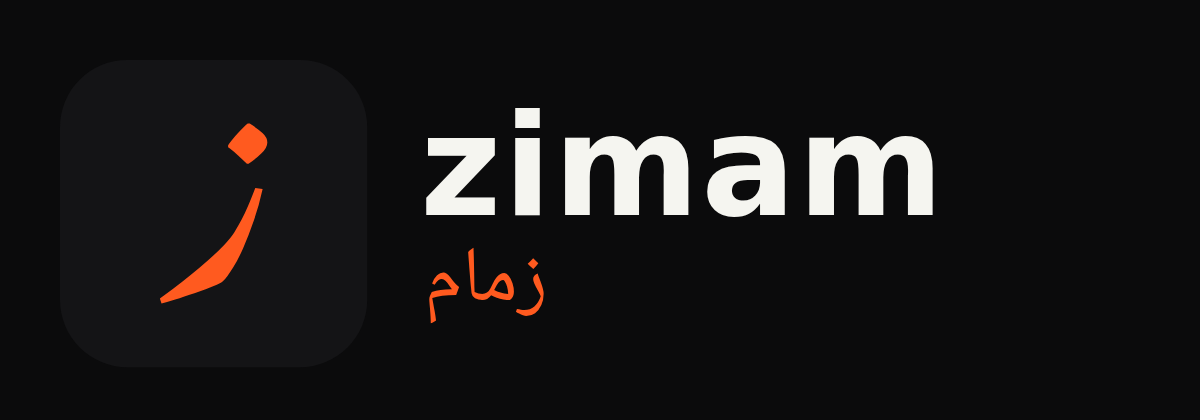
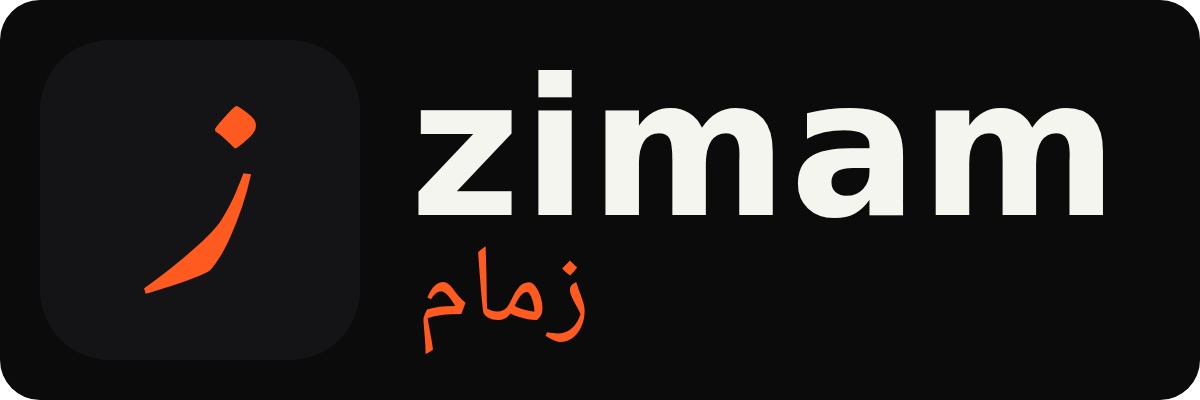
A larger lockup

diff --git a/profile/README.md b/profile/README.md
@@ -1,4 +1,4 @@
-<p align="center"><img src="https://raw.githubusercontent.com/zimamlabs/.github/main/brand/zimam-lockup.png" width="520" alt="Zimam"></p>
+<p align="center"><img src="https://raw.githubusercontent.com/zimamlabs/.github/main/brand/zimam-lockup.png" width="640" alt="Zimam"></p>
 
 <p align="center"><b>Calm, private, open-source apps you stay in control of.</b></p>
 
